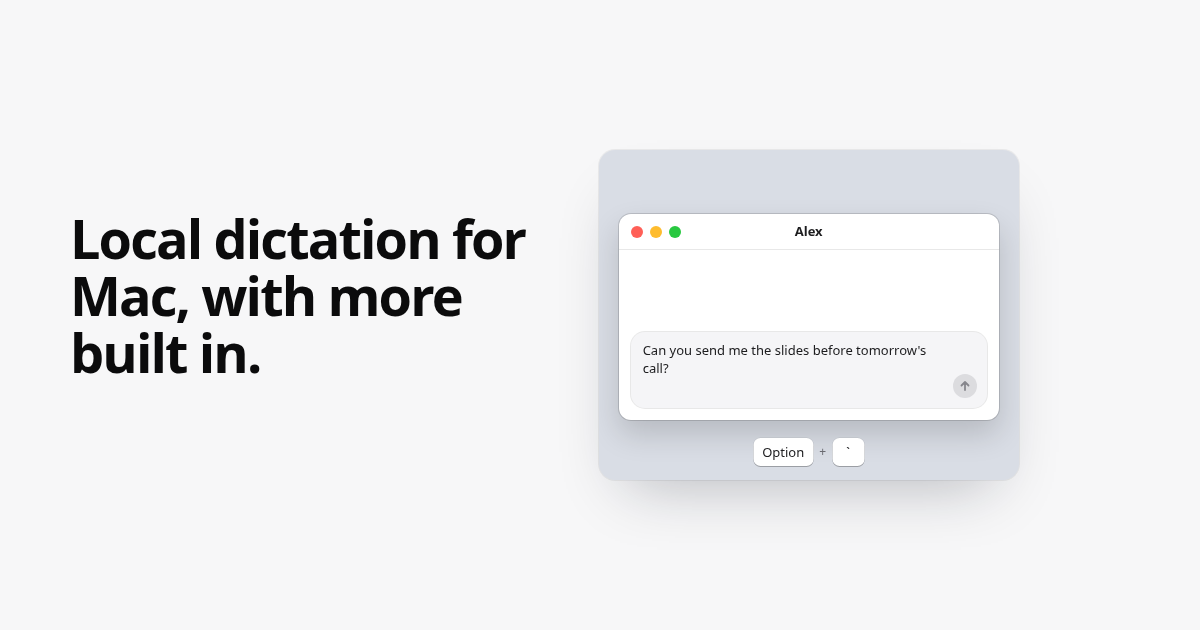
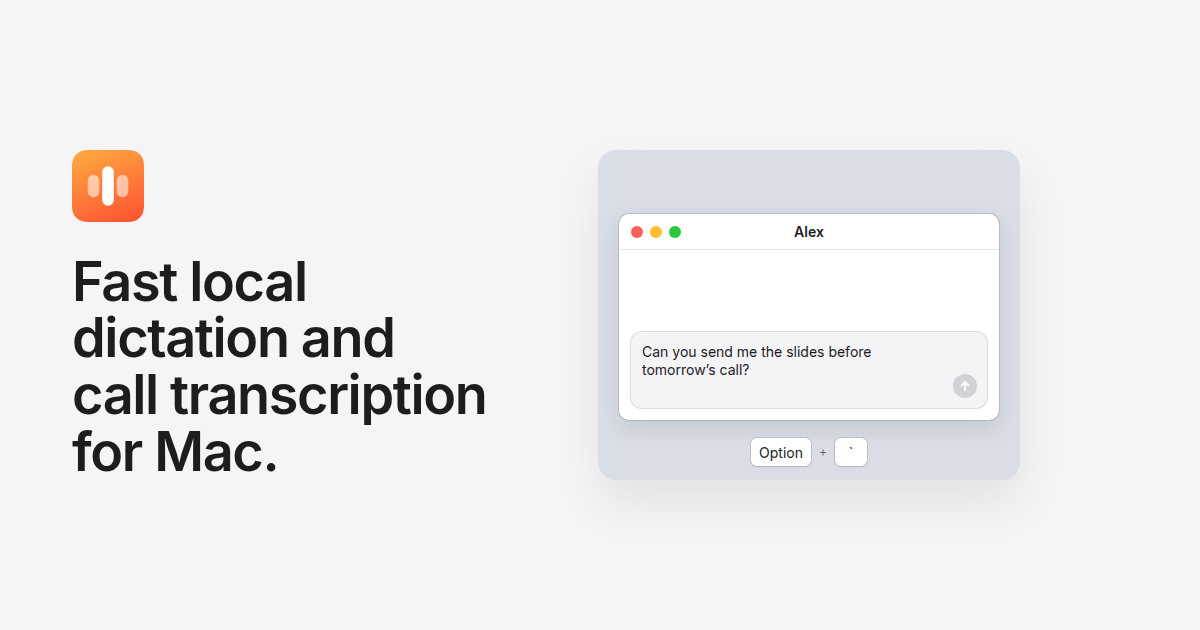
docs(site): share image with the new one-liner

diff --git a/tools/og/og.html b/tools/og/og.html
@@ -1,0 +1,51 @@
+<!doctype html>
+<!-- Source of site/og.png, the 1200x630 share image. Type and colour follow https://spashii.github.io/ds/v1.css;
+     the drawing of the app keeps the app's own colours. Render with tools/og/render.cjs. -->
+<html lang="en">
+<head>
+<meta charset="utf-8">
+<style>
+  :root {
+    --font: -apple-system, BlinkMacSystemFont, "SF Pro Text", "Inter Variable", "Inter", system-ui, sans-serif;
+    --surface: #f5f5f7;
+    --text: #1d1d1f;
+    --hairline: #d2d2d7;
+  }
+  * { box-sizing: border-box; margin: 0; }
+  html, body { width: 1200px; height: 630px; overflow: hidden; }
+  body { background: var(--surface); color: var(--text); font: 400 17px/1.5 var(--font); -webkit-font-smoothing: antialiased; }
+
+  .copy { position: absolute; left: 72px; top: 150px; width: 500px; height: 330px; display: flex; flex-direction: column; justify-content: center; }
+  .copy img { width: 72px; height: 72px; display: block; }
+  h1 { margin-top: 32px; font-size: 54px; line-height: 1.05; letter-spacing: -.025em; font-weight: 600; text-wrap: balance; }
+
+  .frame { position: absolute; left: 598px; top: 150px; width: 422px; height: 330px; border-radius: 18px; background: #d9dde6; box-shadow: 0 24px 48px rgba(0, 0, 0, .08); }
+  .win { position: absolute; left: 21px; top: 64px; width: 380px; height: 206px; border-radius: 10px; background: #fff; box-shadow: 0 0 0 1px rgba(0, 0, 0, .12), 0 8px 24px rgba(0, 0, 0, .10); overflow: hidden; }
+  .bar { height: 36px; border-bottom: 1px solid #e5e5ea; display: flex; align-items: center; justify-content: center; position: relative; font-size: 14px; font-weight: 600; }
+  .lights { position: absolute; left: 12px; top: 12px; display: flex; gap: 7px; }
+  .lights i { width: 12px; height: 12px; border-radius: 50%; }
+  .lights i:nth-child(1) { background: #ff5f57; }
+  .lights i:nth-child(2) { background: #febc2e; }
+  .lights i:nth-child(3) { background: #28c840; }
+  .field { position: absolute; left: 11px; right: 11px; bottom: 11px; height: 78px; border-radius: 12px; background: #f4f4f6; box-shadow: inset 0 0 0 1px #dcdce0; padding: 12px 40px 0 12px; font-size: 14px; line-height: 1.3; }
+  .send { position: absolute; right: 22px; bottom: 22px; width: 24px; height: 24px; border-radius: 50%; background: #d1d1d6; display: grid; place-items: center; }
+  .keys { position: absolute; left: 0; right: 0; top: 288px; display: flex; justify-content: center; align-items: center; gap: 8px; font-size: 14px; }
+  .keys kbd { font: inherit; background: #fff; border-radius: 6px; box-shadow: 0 0 0 1px rgba(0, 0, 0, .10), 0 1px 2px rgba(0, 0, 0, .10); height: 28px; min-width: 32px; padding: 0 8px; display: grid; place-items: center; }
+  .keys span { font-size: 12px; opacity: .6; }
+</style>
+</head>
+<body>
+  <div class="copy">
+    <img src="../../site/icon.svg" alt="">
+    <h1>Fast local dictation and call transcription for Mac.</h1>
+  </div>
+  <div class="frame">
+    <div class="win">
+      <div class="bar"><span class="lights"><i></i><i></i><i></i></span>Alex</div>
+      <div class="field">Can you send me the slides before tomorrow’s call?</div>
+      <div class="send"><svg width="12" height="12" viewBox="0 0 12 12" fill="none" stroke="#fff" stroke-width="1.8" stroke-linecap="round" stroke-linejoin="round"><path d="M6 10V2M2.5 5.5 6 2l3.5 3.5"/></svg></div>
+    </div>
+    <div class="keys"><kbd>Option</kbd><span>+</span><kbd>`</kbd></div>
+  </div>
+</body>
+</html>
